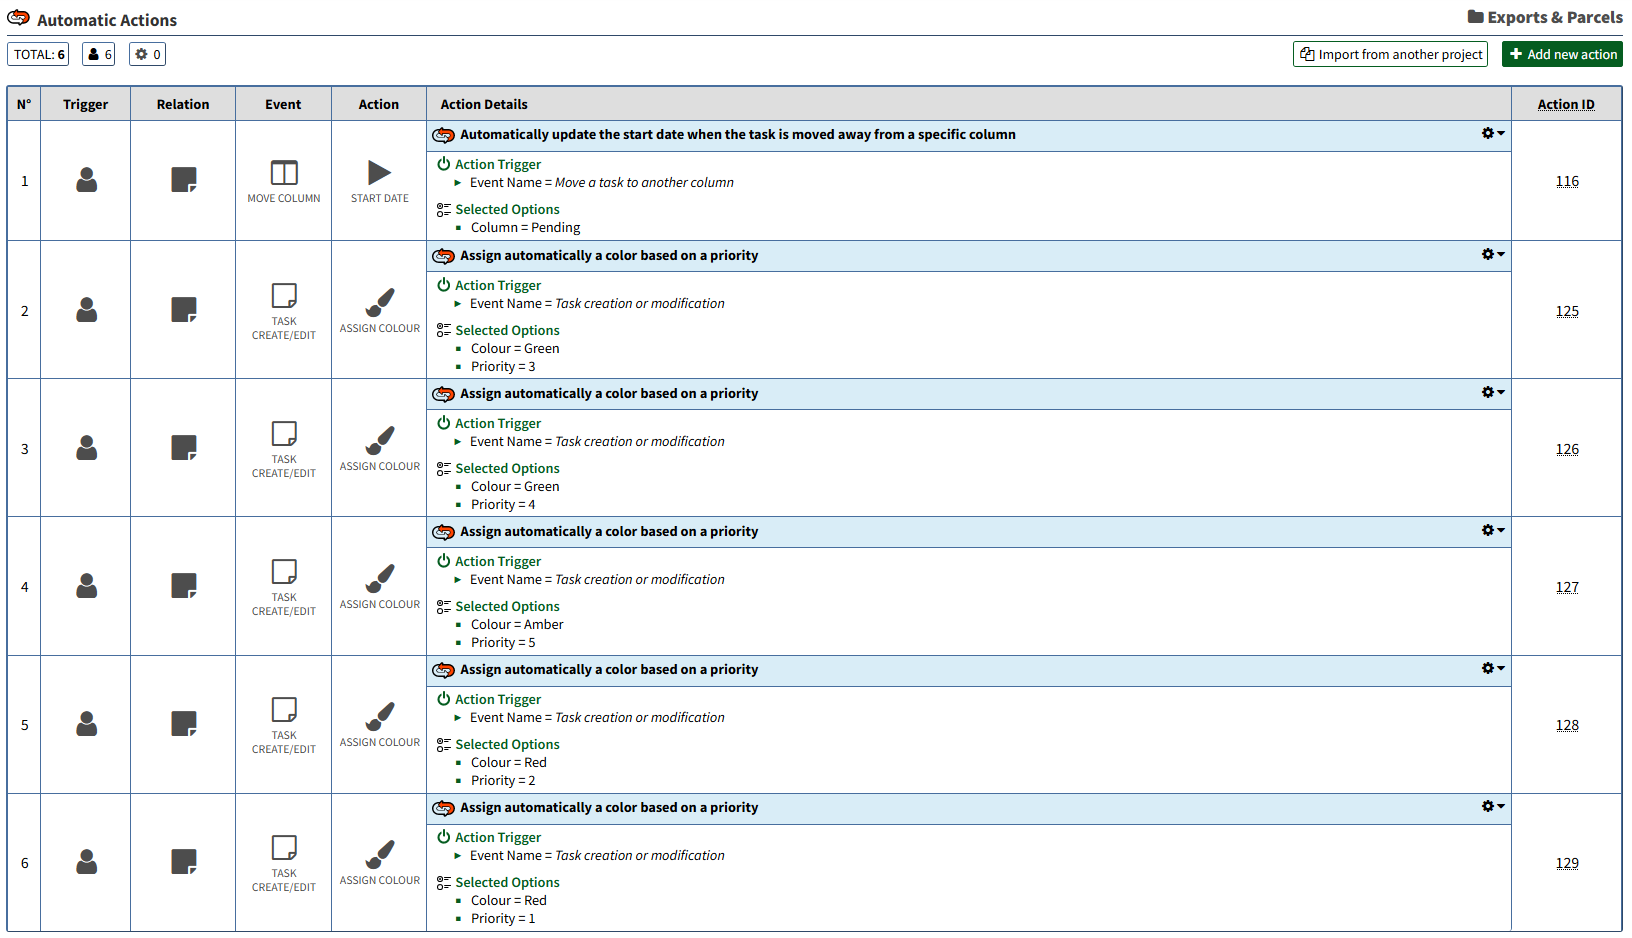
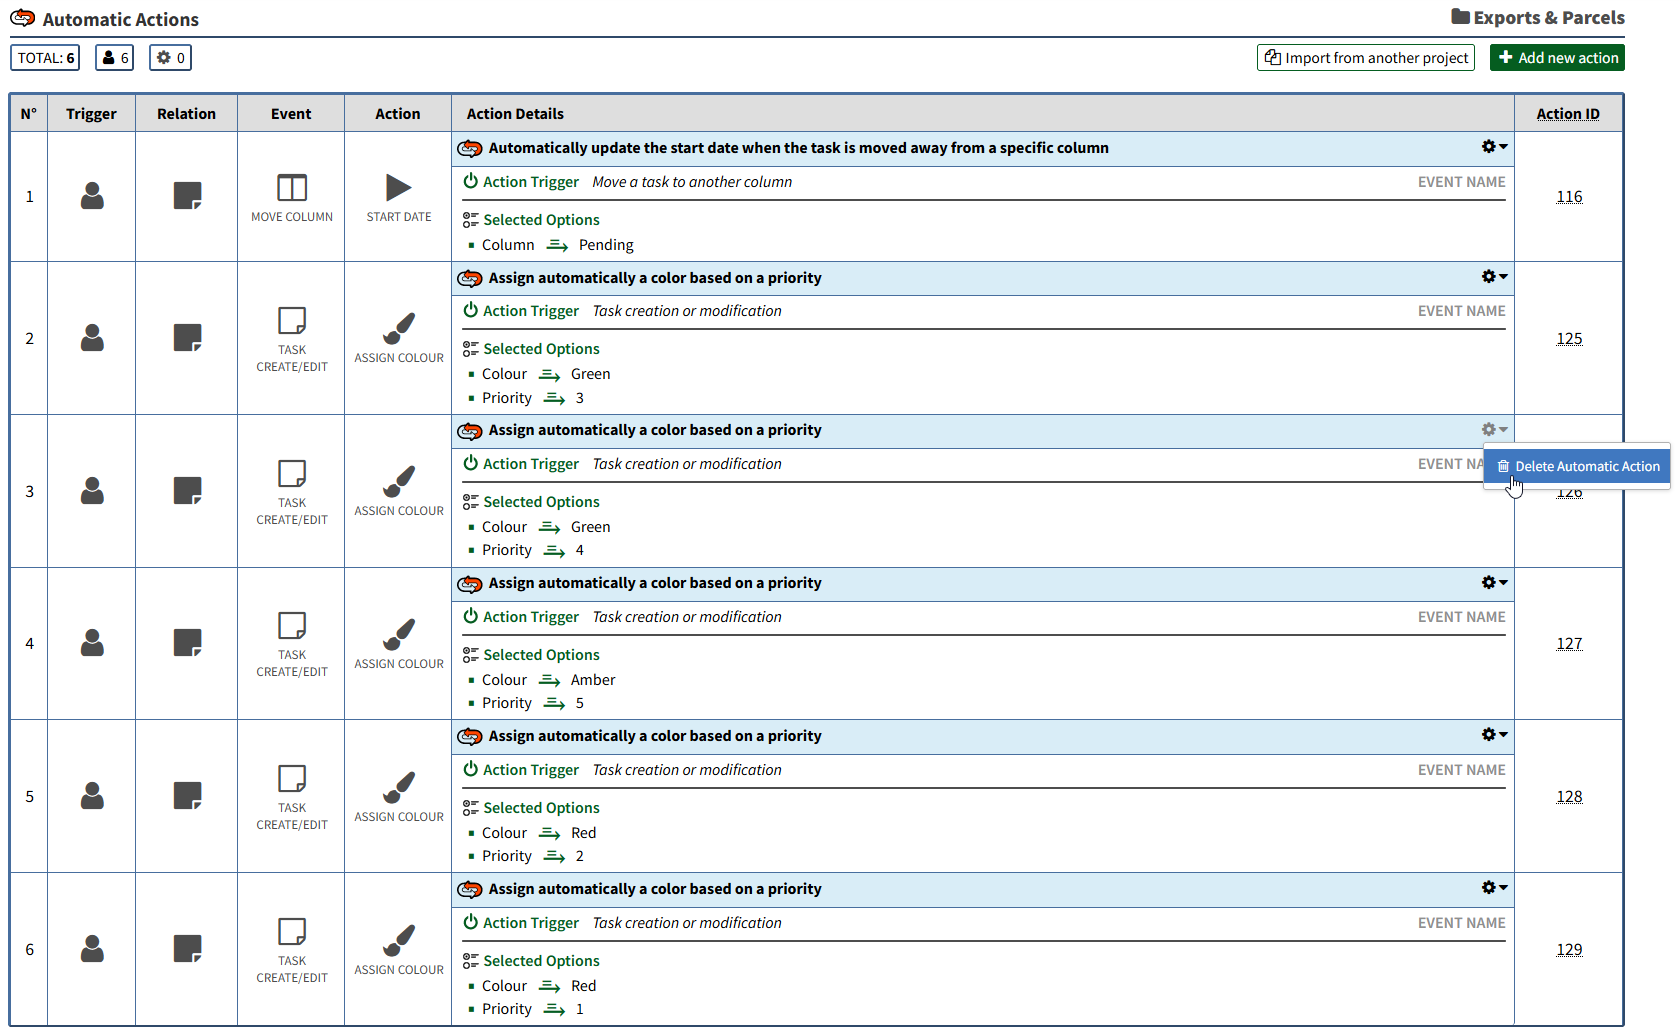
Update README.md and Screenshots
- Closes #14

diff --git a/README.md b/README.md
@@ -9,7 +9,7 @@ Features
 -------------
 
 - Simplified and revamped the Automatic Actions page in `Project Settings`
-- Added icons for better user experience
+- Added icons and error messages for better user experience
 - Display Action IDs
 - Converted existing core layout to a better table
 - Display total actions for the project
@@ -32,6 +32,9 @@ Screenshots
 
 ![Project Dropdown Menu](../master/screenshot-dropdown.png "Project Dropdown Menu")
 
+**Error Messages**  
+
+![Error Messages](../master/screenshot-error-messages.png "Error Messages")
 
 Usage
 -------------
